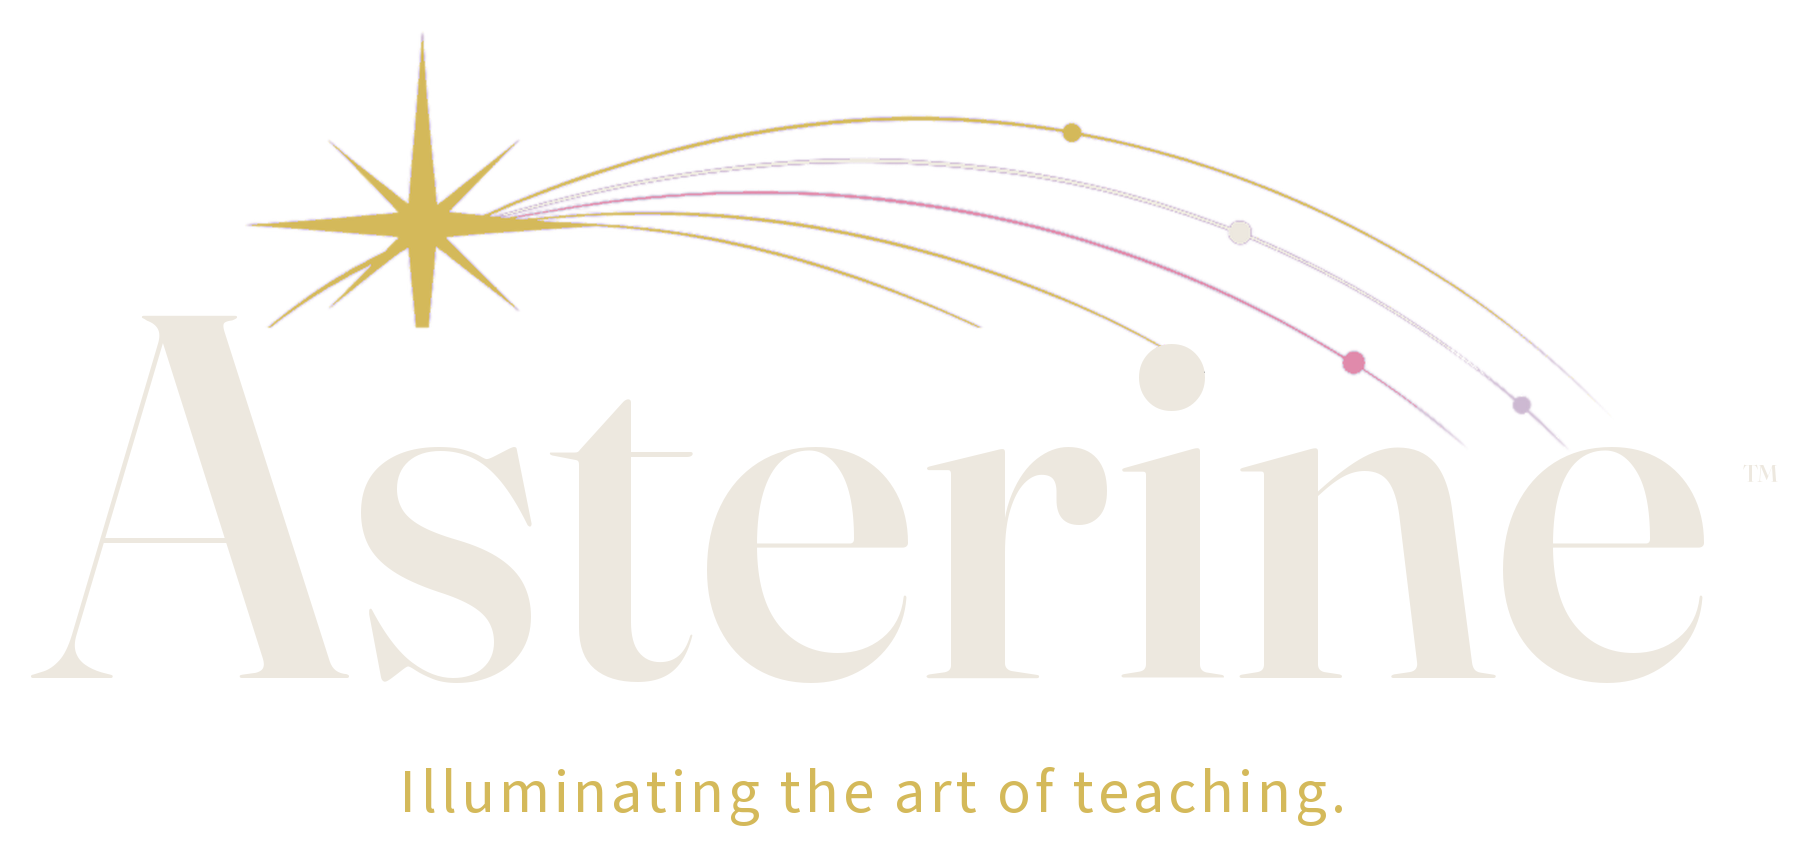
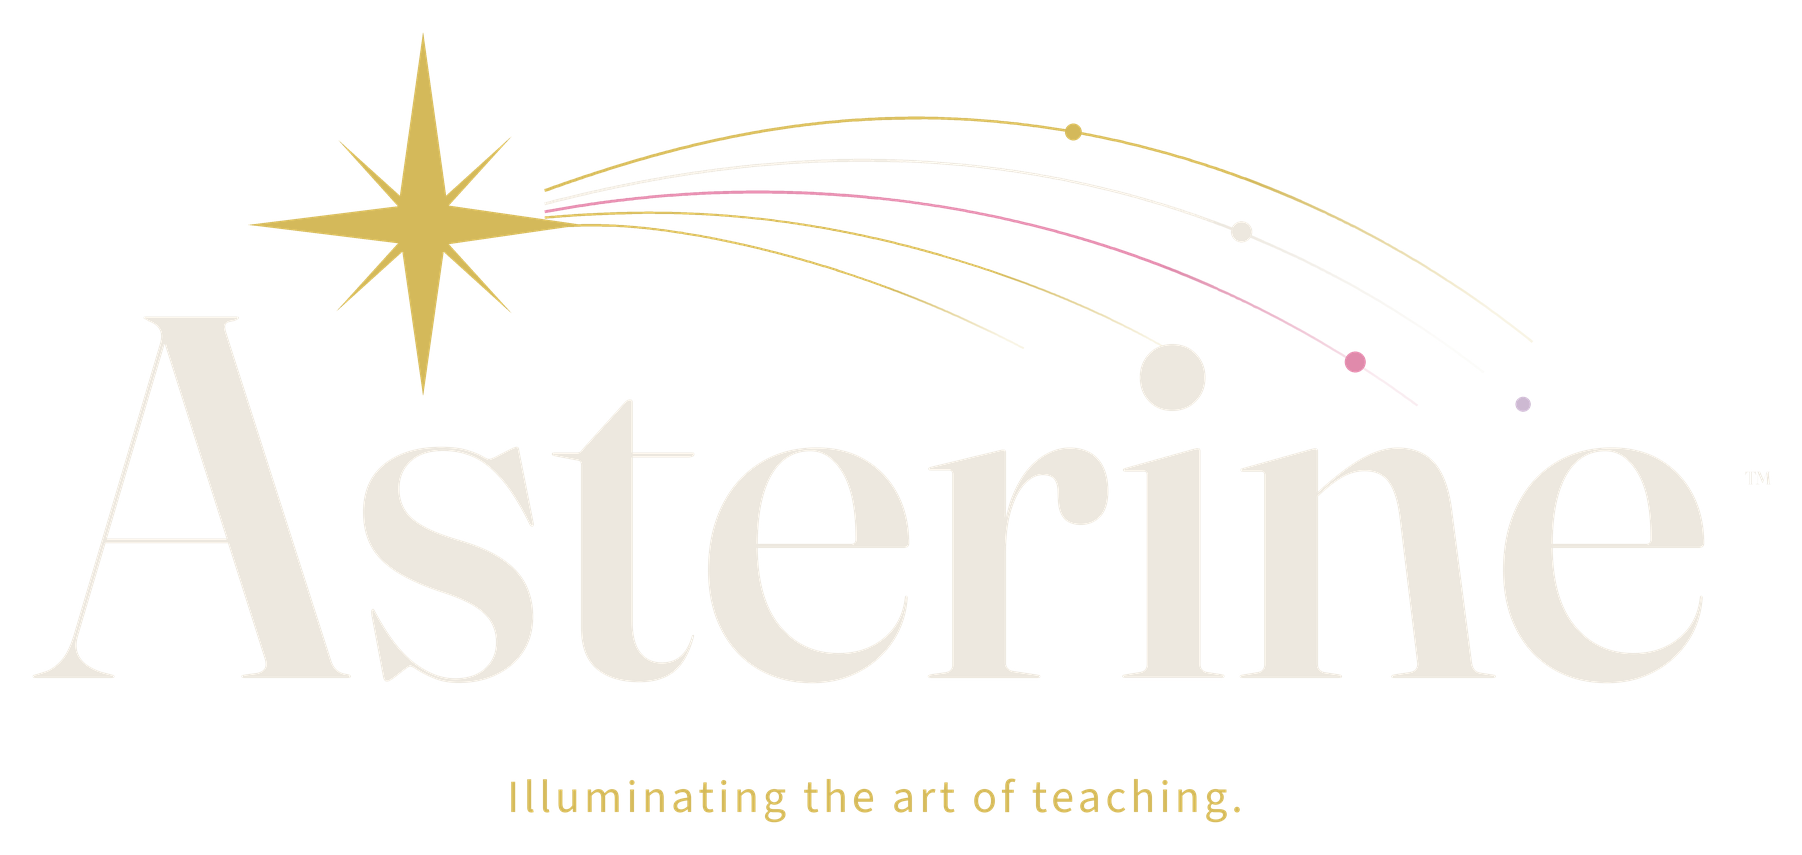
The mark as clean vectors measured from Beth's original; new hero paragraph
Claude-Session: https://claude.ai/code/session_01EFzpNabHWwv57txNjfwZ9M

diff --git a/index.html b/index.html
@@ -160,9 +160,9 @@ footer .wordmark{font-size:1.6rem;color:var(--on-navy);margin-bottom:.9rem}
 <header class="hero">
  <div class="wrap inner">
   <div>
-   <div class="logo"><img class="mark" src="images/mark.png" width="1808" height="856" alt="Asterine - Illuminating the art of teaching"></div>
+   <div class="logo"><img class="mark" src="images/mark.png" width="1802" height="855" alt="Asterine - Illuminating the art of teaching"></div>
    <h1>Professional learning, tools, and expertise built for arts educators.</h1>
-   <p class="lede">Asterine works with arts teachers, the coaches and leaders who support them, and the programs that prepare them. Sightline, our lesson-analysis tool, is often where that work starts.</p>
+   <p class="lede">Asterine supports arts educators across their professional lives—from the classroom to coaching, leadership, and teacher preparation. Sightline, our lesson-analysis tool, offers one place to begin.</p>
    <div class="cta-row">
     <a class="btn gold" data-cta="training" href="#">Book a 90-minute training</a>
     <a class="btn ghost" data-cta="conversation" href="#">Start a conversation</a>
